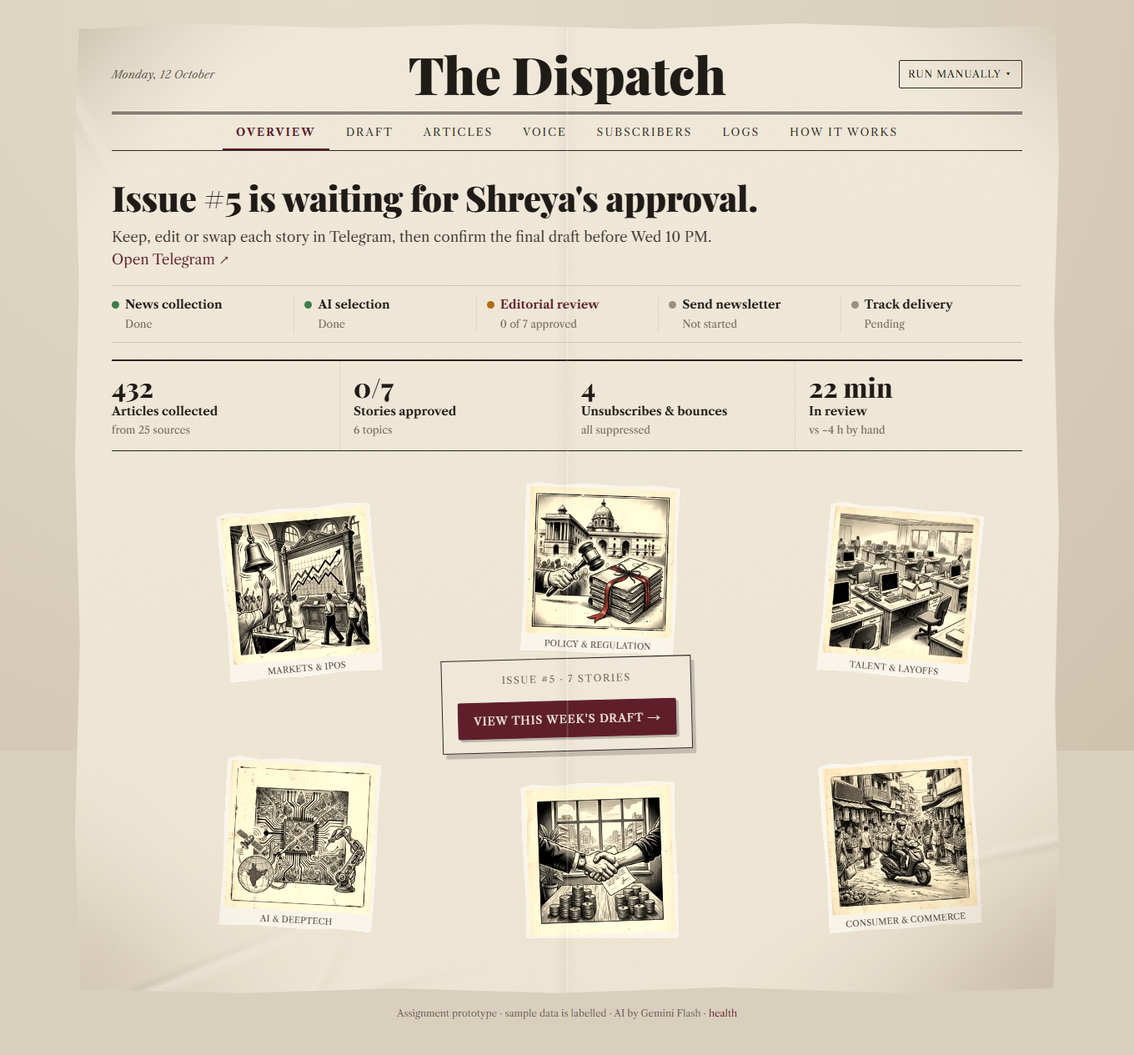
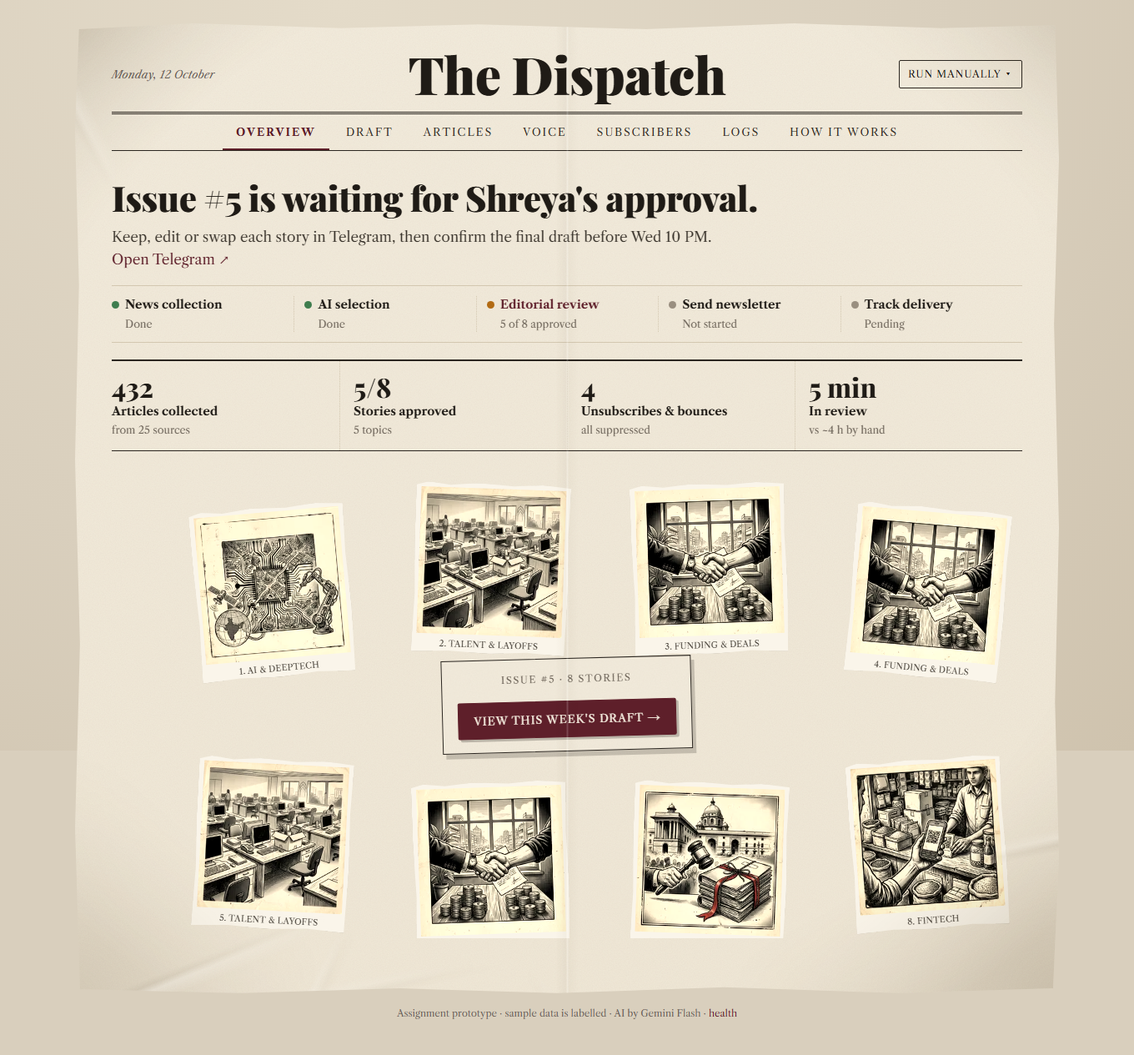
Enforce 8-10 stories / 3+ topics through review: auto-replacement on reject, confirmation refused outside the range; collage shows one picture per story

diff --git a/lib/issues.ts b/lib/issues.ts
@@ -124,14 +124,29 @@ async function renumber(issueId: number) {
             WHERE s.id = x.id`;
 }
 
+/**
+ * Reject a story. The brief requires 8–10 stories, so if removing it would leave fewer
+ * than 8, the best unused reserve (or a Gemini pick) takes its place automatically.
+ */
 export async function rejectStory(storyId: number, channel: Channel) {
   const story = await editableStory(storyId);
   await sql`UPDATE issue_stories SET state = 'rejected', position = NULL, edited_at = now() WHERE id = ${storyId}`;
   await renumber(story.issue_id);
   await logEvent(story.issue_id, "story_rejected", channel, `Removed: ${story.title}`);
+  let replacement: Story | null = null;
+  let remaining = await getStories(story.issue_id);
+  if (remaining.length < MIN_STORIES) {
+    try {
+      const r = await bringInReplacement(story.issue_id, remaining.length + 1, remaining);
+      replacement = await getStory(r.id);
+      await logEvent(story.issue_id, "story_added", channel, `Replacement added to keep ${MIN_STORIES} stories (${r.via})`);
+      remaining = await getStories(story.issue_id);
+    } catch (e) {
+      if (!(e instanceof IssueError)) throw e; // nothing left to bring in: the draft stays short and can't be confirmed
+    }
+  }
   const revoked = await revokeApprovalIfApproved(story.issue_id, channel, "Story removed");
-  const health = draftHealth(await getStories(story.issue_id));
-  return { story, revoked, health };
+  return { story, replacement, revoked, health: draftHealth(remaining) };
 }
 
 /**
@@ -151,7 +166,8 @@ async function bringInReplacement(issueId: number, position: number, remaining: 
   const pool = await candidates(issue.week_key, issue.id);
   if (!pool.length) throw new IssueError("No reserves or unused candidates left to swap in.");
   const voice = (await latestVoiceGuide())?.content ?? "";
-  const rep = await geminiReplacement(pool, remaining.map((s) => ({ title: s.title, topic: s.topic ?? "Other" })), voice);
+  const removed = (await getStories(issueId, ["rejected", "swapped_out"])).map((s) => s.title);
+  const rep = await geminiReplacement(pool, remaining.map((s) => ({ title: s.title, topic: s.topic ?? "Other" })), voice, removed);
   const art = pool.find((c) => c.id === rep.article_id)!;
   const check = checkCommentary(rep.commentary, `${art.title} ${art.summary ?? ""}`);
   const ins = await sql`INSERT INTO issue_stories (issue_id, article_id, position, commentary, original_commentary, state, gemini_rationale, needs_review, review_notes)
@@ -179,6 +195,7 @@ export async function addReplacement(issueId: number, channel: Channel) {
   const issue = await getIssue(issueId);
   if (!issue || !EDITABLE.includes(issue.status)) throw new IssueError("Edits are closed for this issue.");
   const remaining = await getStories(issueId);
+  if (remaining.length >= MAX_STORIES) throw new IssueError(`The draft already has ${MAX_STORIES} stories, the maximum.`);
   const { id, via } = await bringInReplacement(issueId, remaining.length + 1, remaining);
   await logEvent(issueId, "story_added", channel, `Replacement added (${via})`);
   const revoked = await revokeApprovalIfApproved(issueId, channel, "Story added");
@@ -199,6 +216,11 @@ export async function approveIssue(issueId: number, via: "telegram" | "dashboard
   const lateOk = issue.status === "skipped" && istParts(at).dateStr === istParts(sendAt).dateStr;
   if (issue.status !== "pending_approval" && !lateOk) {
     return { ok: false, message: `Issue #${issue.issue_number} is ${issue.status.replace(/_/g, " ")}; it can't be approved now.`, offerSendNow: false, warnings: [] };
+  }
+  // The brief: 8–10 stories spanning at least 3 topics. A draft outside that can't be confirmed.
+  const check = draftHealth(await getStories(issueId));
+  if (check.count < MIN_STORIES || check.count > MAX_STORIES || check.topics.length < MIN_TOPICS) {
+    return { ok: false, message: `Issue #${issue.issue_number} can't be confirmed yet: it has ${check.warnings.join(" and ")}. Swap a story in first.`, offerSendNow: false, warnings: check.warnings };
   }
   const rows = await sql`UPDATE issues SET status = 'approved', approved_at = ${at.toISOString()}, approved_via = ${via}
                          WHERE id = ${issueId} AND status = ${issue.status} RETURNING id`;

diff --git a/tests/security.test.ts b/tests/security.test.ts
@@ -155,7 +155,7 @@ describe("Telegram review flow (E2, E3, E4)", () => {
     expect(await handleUpdate(text("Too late. Two sentences."), later)).toBe("ignored: no pending action");
   });
 
-  it("Swap uses the reserves and keeps the position; Reject removes and warns below 8 stories", async () => {
+  it("Swap uses the reserves and keeps the position; Reject at 8 stories brings in a reserve to keep 8", async () => {
     const issue = await makeDraft({ n: 8, reserves: 2 });
     const stories = await getStories(issue.id);
     const reserves = await getStories(issue.id, ["reserve"]);
@@ -165,14 +165,24 @@ describe("Telegram review flow (E2, E3, E4)", () => {
     expect(reserves.map((r) => r.id)).toContain(after[3].id);
     expect((await sql`SELECT state FROM issue_stories WHERE id = ${stories[3].id}`)[0].state).toBe("swapped_out");
 
-    expect(await handleUpdate(callback(`r:${stories[0].id}`))).toBe("story rejected");
+    expect(await handleUpdate(callback(`r:${stories[0].id}`))).toBe("story rejected, replacement added");
     expect((await sql`SELECT state FROM issue_stories WHERE id = ${stories[0].id}`)[0].state).toBe("rejected");
     const remaining = await getStories(issue.id);
-    expect(remaining).toHaveLength(7);
-    expect(remaining.map((s) => s.position)).toEqual([1, 2, 3, 4, 5, 6, 7]);
+    expect(remaining).toHaveLength(8);
+    expect(remaining.map((s) => s.position)).toEqual([1, 2, 3, 4, 5, 6, 7, 8]);
+    expect(calls.telegram.some((c) => /To keep 8 stories/.test(c.body.text ?? ""))).toBe(true);
+  });
+
+  it("when no reserves or candidates are left, a reject leaves the draft short and it can't be confirmed", async () => {
+    const issue = await makeDraft({ n: 8, reserves: 0 });
+    const [s1] = await getStories(issue.id);
+    expect(await handleUpdate(callback(`r:${s1.id}`))).toBe("story rejected");
+    expect(await getStories(issue.id)).toHaveLength(7);
     const warn = calls.telegram.find((c) => /only 7 stories/.test(c.body.text ?? ""));
-    expect(warn).toBeTruthy();
     expect(JSON.stringify(warn!.body.reply_markup)).toMatch(/Swap one in/);
+    expect(await handleUpdate(callback(`a:${issue.id}`), WED_2159)).toMatch(/approve: blocked/);
+    expect(await handleUpdate(callback(`ay:${issue.id}`), WED_2159)).toMatch(/approve refused/);
+    expect((await issueStatus(issue.id)).status).toBe("pending_approval");
   });
 
   it("Approve asks for confirmation, then stores status, time and channel", async () => {
@@ -188,11 +198,19 @@ describe("Telegram review flow (E2, E3, E4)", () => {
     expect(new Date(row.approved_at).toISOString()).toBe(WED_2159.toISOString());
   });
 
-  it("approving with fewer than 8 stories warns but is allowed", async () => {
+  it("a draft with fewer than 8 stories or 3 topics can't be confirmed (brief: 8–10 stories, 3+ topics)", async () => {
     const issue = await makeDraft({ n: 6, topics: 2 });
-    await handleUpdate(callback(`a:${issue.id}`));
-    expect(calls.telegram.some((c) => /only 6 stories/.test(c.body.text ?? "") && /only 2 topic/.test(c.body.text ?? ""))).toBe(true);
+    expect(await handleUpdate(callback(`a:${issue.id}`), WED_2159)).toMatch(/approve: blocked/);
+    expect(calls.telegram.some((c) => /can't be confirmed yet/.test(c.body.text ?? "") && /only 6 stories/.test(c.body.text ?? "") && /only 2 topic/.test(c.body.text ?? ""))).toBe(true);
     const r = await approveIssue(issue.id, "telegram", WED_2159);
-    expect(r.ok).toBe(true);
+    expect(r.ok).toBe(false);
+    expect((await issueStatus(issue.id)).status).toBe("pending_approval");
+  });
+
+  it("8 stories but only 2 topics can't be confirmed either", async () => {
+    const issue = await makeDraft({ n: 8, topics: 2 });
+    const r = await approveIssue(issue.id, "dashboard", WED_2159);
+    expect(r.ok).toBe(false);
+    expect(r.message).toMatch(/only 2 topic/);
   });
 });

diff --git a/lib/telegram.ts b/lib/telegram.ts
@@ -240,11 +240,14 @@ async function handleCallback(cb: any, at: Date): Promise<string> {
       case "r": {
         const r = await rejectStory(id, "telegram");
         await answer(cb.id, "Story removed");
-        const warn = r.health.warnings.length ? `\n⚠ The draft now has ${r.health.warnings.join(" and ")}. Consider swapping a story back in.` : "";
-        await send(`❌ Removed “${esc(r.story.title)}”. ${r.health.count} stories across ${r.health.topics.length} topics remain.${warn}`,
+        const warn = r.health.warnings.length ? `\n⚠ The draft has ${r.health.warnings.join(" and ")} — it needs 8–10 stories across 3+ topics before you can confirm it.` : "";
+        await send(`❌ Removed “${esc(r.story.title)}”. ${r.health.count} stories across ${r.health.topics.length} topics.${warn}`,
           r.health.warnings.length ? [[{ text: "🔄 Swap one in", callback_data: `u:${r.story.issue_id}` }]] : undefined);
+        if (r.replacement) {
+          await send(`➕ To keep 8 stories, this one came in from the reserves:\n\n${storyText(r.replacement)}`, storyKeyboard(r.replacement));
+        }
         await revokedNote(r.revoked);
-        return "story rejected";
+        return r.replacement ? "story rejected, replacement added" : "story rejected";
       }
       case "u": {
         const r = await addReplacement(id, "telegram");
@@ -258,11 +261,15 @@ async function handleCallback(cb: any, at: Date): Promise<string> {
         const stories = issue ? await getStories(id) : [];
         const h = draftHealth(stories);
         await answer(cb.id);
+        if (h.warnings.length) {
+          await send(`⚠ Issue #${issue?.issue_number} can't be confirmed yet: it has ${h.warnings.join(" and ")}. The newsletter needs 8–10 stories across at least 3 topics.`,
+            [[{ text: "🔄 Swap one in", callback_data: `u:${id}` }]]);
+          return "approve: blocked (draft outside 8–10 stories / 3 topics)";
+        }
         const pending = stories.filter((s) => !s.approved_at).map((s) => s.position);
         await send(
           `Approve issue #${issue?.issue_number} with ${h.count} stories for Thursday 8 AM?` +
-          `\n${h.approved} of ${h.count} stories approved individually${pending.length ? ` — confirming also approves ${pending.length === 1 ? "story" : "stories"} ${pending.join(", ")}` : ""}.` +
-          `${h.warnings.length ? `\n⚠ Note: ${h.warnings.join("; ")}. You can still approve — it's your call.` : ""}`,
+          `\n${h.approved} of ${h.count} stories approved individually${pending.length ? ` — confirming also approves ${pending.length === 1 ? "story" : "stories"} ${pending.join(", ")}` : ""}.`,
           [[{ text: "Yes, approve", callback_data: `ay:${id}` }, { text: "No", callback_data: `an:${id}` }]],
         );
         return "approve: confirm asked";

diff --git a/app/page.tsx b/app/page.tsx
@@ -90,12 +90,15 @@ function Workflow({ d }: { d: D }) {
 const T = (x: number, y: number, r: number) => ({ x: `${x}%`, y: `${y}%`, r: `${r}deg`, sx: `${50 + (x - 50) * 2.6}%`, sy: `${50 + (y - 50) * 2.6}%` });
 const SPOTS_6 = [T(17, 23, -5), T(50, 18, 2), T(83, 23, 5), T(17, 77, 3), T(50, 82, -2), T(83, 77, -4)];
 const SPOTS_8 = [T(14, 23, -5), T(38, 18, 2), T(62, 18, -2), T(86, 23, 5), T(14, 77, 3), T(38, 82, -2), T(62, 82, 2), T(86, 77, -4)];
+const SPOTS_10 = [T(10, 24, -5), T(30, 18, 3), T(50, 15, -2), T(70, 18, 2), T(90, 24, 5), T(10, 76, 3), T(30, 82, -3), T(50, 85, 2), T(70, 82, -2), T(90, 76, -4)];
 
 function Overview({ d }: { d: D }) {
   const o = d.overview;
-  const topics = [...new Set(d.stories.map((s) => s.topic ?? "Other"))];
-  const shown = (topics.length ? topics : TOPICS.filter((t) => t !== "Other").slice(0, 6)).slice(0, 8);
-  const spots = shown.length <= 6 ? SPOTS_6 : SPOTS_8;
+  // One picture per story in the draft (8–10); before the draft exists, a few topic pictures.
+  const shown = d.stories.length
+    ? d.stories.slice(0, 10).map((s) => ({ key: String(s.id), topic: s.topic ?? "Other", cap: `${s.position}. ${s.topic ?? "Other"}` }))
+    : TOPICS.filter((t) => t !== "Other").slice(0, 6).map((t) => ({ key: t, topic: t, cap: t }));
+  const spots = shown.length <= 6 ? SPOTS_6 : shown.length <= 8 ? SPOTS_8 : SPOTS_10;
   const suppressed = d.subCounts.unsubscribed + d.subCounts.bounced + d.subCounts.complained;
   const hasDraft = d.stories.length > 0;
   return (
@@ -120,11 +123,11 @@ function Overview({ d }: { d: D }) {
           {shown.map((t, i) => {
             const s = spots[i];
             return (
-              <figure className="tile" key={t} style={{ "--x": s.x, "--y": s.y, "--r": s.r, "--sx": s.sx, "--sy": s.sy } as React.CSSProperties}>
+              <figure className={`tile${shown.length > 8 ? " small" : ""}`} key={t.key} style={{ "--x": s.x, "--y": s.y, "--r": s.r, "--sx": s.sx, "--sy": s.sy } as React.CSSProperties}>
                 <div style={{ position: "relative", width: "100%", height: "100%" }}>
-                  <Image src={topicImage(t)} alt={`Illustration for ${t}`} fill sizes="(max-width: 760px) 30vw, 220px" />
+                  <Image src={topicImage(t.topic)} alt={`Illustration for ${t.topic}`} fill sizes="(max-width: 760px) 30vw, 220px" />
                 </div>
-                <figcaption className="cap">{t}</figcaption>
+                <figcaption className="cap">{t.cap}</figcaption>
               </figure>
             );
           })}

diff --git a/scripts/top-up-draft.ts b/scripts/top-up-draft.ts
@@ -1,0 +1,40 @@
+import { loadEnv } from "./load-env";
+loadEnv();
+
+/**
+ * One-off repair: bring this week's draft back to the brief's minimum (8 stories, 3+ topics)
+ * after rejects left it short, revoke any approval it got while short, and resend it to Telegram.
+ */
+async function main() {
+  const { sql } = await import("../lib/db");
+  const { addReplacement, draftHealth, getStories, logEvent, revokeApprovalIfApproved } = await import("../lib/issues");
+  const { MIN_STORIES, MIN_TOPICS } = await import("../lib/editorial");
+  const { send, sendDraft } = await import("../lib/telegram");
+  const { weekKey } = await import("../lib/time");
+
+  const issue = (await sql`SELECT * FROM issues WHERE week_key = ${weekKey(new Date())}`)[0];
+  if (!issue) throw new Error("no issue this week");
+  let h = draftHealth(await getStories(issue.id));
+  console.log(`before: issue #${issue.issue_number} ${issue.status}, ${h.count} stories, ${h.topics.length} topics`);
+  if (h.count >= MIN_STORIES && h.topics.length >= MIN_TOPICS) { console.log("nothing to do"); return; }
+
+  const revoked = await revokeApprovalIfApproved(issue.id, "system", `Draft had ${h.warnings.join(" and ")}; topped up to meet the 8–10 stories / 3+ topics rule`);
+  const added: string[] = [];
+  while (h.count < MIN_STORIES || (h.topics.length < MIN_TOPICS && h.count < 10)) {
+    const r = await addReplacement(issue.id, "system");
+    added.push(`${r.newStory.position}. ${r.newStory.title} (${r.newStory.topic}, ${r.via})`);
+    h = draftHealth(await getStories(issue.id));
+  }
+  await logEvent(issue.id, "story_added", "system", `Topped up to ${h.count} stories, ${h.topics.length} topics`);
+  console.log(`revoked approval: ${revoked}`);
+  console.log(`added:\n  ${added.join("\n  ")}`);
+  console.log(`after: ${h.count} stories, ${h.topics.length} topics (${h.topics.join(", ")})`);
+
+  await send(
+    `ℹ <b>Issue #${issue.issue_number} was topped back up to ${h.count} stories.</b>\n` +
+    `After the rejects it had fewer than 8 stories, and the newsletter must have 8–10 stories across at least 3 topics, so ${added.length} replacement${added.length === 1 ? " was" : "s were"} added from the reserves / this week's unused articles.` +
+    `${revoked ? "\nYour earlier approval was revoked because the draft changed — please review the new stories and confirm again." : ""}\nThe full draft follows.`,
+  );
+  await sendDraft(issue.id);
+}
+main().catch((e) => { console.error(e); process.exit(1); });

diff --git a/app/globals.css b/app/globals.css
@@ -157,6 +157,7 @@ a.card:hover { text-decoration: none; background: rgba(255,252,244,.5); }
   transition: transform .55s cubic-bezier(.6,.05,.4,1), opacity .45s ease, left .55s cubic-bezier(.6,.05,.4,1), top .55s cubic-bezier(.6,.05,.4,1);
   clip-path: polygon(0 2%, 8% 0, 22% 1.5%, 40% 0, 63% 1.2%, 82% 0, 100% 1.5%, 99% 30%, 100% 62%, 98.8% 100%, 75% 98.6%, 50% 100%, 24% 98.8%, 0 100%, 1.2% 66%, 0 33%);
 }
+.tile.small { width: 14.5%; }
 .tile img { width: 100%; height: 100%; object-fit: cover; display: block; filter: sepia(.25) contrast(1.05); }
 .tile .cap { position: absolute; left: 0; right: 0; bottom: 3px; text-align: center; font-family: var(--label); font-size: 10px; letter-spacing: .02em; text-transform: uppercase; color: var(--ink-2); white-space: nowrap; overflow: hidden; text-overflow: ellipsis; padding: 0 4px; }
 .collage-center { position: absolute; left: 50%; top: 50%; transform: translate(-50%, -50%) rotate(-1.5deg); z-index: 5; background: var(--paper); background-image: var(--noise); border: 1px solid var(--rule); padding: 16px 18px; text-align: center; box-shadow: 4px 6px 0 rgba(31,27,22,.2); min-width: 240px; transition: all .4s ease; }
@@ -325,6 +326,7 @@ iframe.preview { width: 100%; height: 720px; border: 1px solid var(--line); back
   .card:nth-child(n+3) { border-top: 1px dotted var(--line); }
   .collage { height: 380px; margin: 0 6px; }
   .tile { width: 24%; }
+  .tile.small { width: 19%; }
   .draft-grid { grid-template-columns: 1fr; }
   .story { border-right: 0 !important; }
   .story.lead { grid-template-columns: 1fr; }

diff --git a/lib/editorial.ts b/lib/editorial.ts
@@ -286,7 +286,7 @@ export function checkCommentary(commentary: string, source: string): { commentar
 // ---------------------------------------------------------------------------
 // Swap replacement when reserves run out
 // ---------------------------------------------------------------------------
-export async function geminiReplacement(cands: Candidate[], keep: { title: string; topic: string }[], voice: string) {
+export async function geminiReplacement(cands: Candidate[], keep: { title: string; topic: string }[], voice: string, removed: string[] = []) {
   const out = await generateJson<{ article_id: number; rationale: string; commentary: string }>({
     system: "You are a sharp, careful newsletter editor. Return JSON only.",
     prompt: [
@@ -297,6 +297,7 @@ export async function geminiReplacement(cands: Candidate[], keep: { title: strin
       GROUNDING_RULES,
       `Voice guide:\n${voice}`,
       `Stories already in the issue:\n${keep.map((k) => `- [${k.topic}] ${k.title}`).join("\n")}`,
+      removed.length ? `Shreya removed these stories from the draft. Do NOT pick them again, or any other article about the same events:\n${removed.map((t) => `- ${t}`).join("\n")}` : "",
       `Candidates (id | topic | source | title | summary):\n${cands.map((c) => `${c.id} | ${c.topic} | ${c.source_name} | ${c.title} | ${(c.summary || "").slice(0, 200)}`).join("\n")}`,
     ].join("\n\n"),
     schema: {

diff --git a/app/api/admin/action/route.ts b/app/api/admin/action/route.ts
@@ -72,7 +72,7 @@ export async function POST(req: Request) {
       }
       case "story_reject": {
         const r = await rejectStory(Number(form.get("story_id")), "dashboard");
-        message = `Story removed. ${r.health.count} stories, ${r.health.topics.length} topics${r.health.warnings.length ? ` — ${r.health.warnings.join("; ")}` : ""}.${r.revoked ? " Approval was revoked." : ""}`;
+        message = `Story removed.${r.replacement ? ` “${r.replacement.title}” came in from the reserves to keep 8 stories.` : ""} ${r.health.count} stories, ${r.health.topics.length} topics${r.health.warnings.length ? ` — ${r.health.warnings.join("; ")}; swap a story in before confirming` : ""}.${r.revoked ? " Approval was revoked." : ""}`;
         anchor = "draft"; break;
       }
       case "approve": {

diff --git a/RUBRIC.md b/RUBRIC.md
@@ -2,7 +2,7 @@
 
 Self-assessment and acceptance checklist against **Problem Statement 17 (MESA Cohort C4, AI and its Applications — Section 1)**. A row is ✅ only when evidence exists; ⚠ = partial, ❌ = not done (with the reason).
 
-Evidence lives in [`docs/evidence/`](docs/evidence/): `test-results.txt` (full Vitest run: 66 tests in 6 files, all passing), `e2e.txt` (production checks), `live-email-test.txt`, `cron-triggers.txt`, `broken-feed-run.txt`, `telegram-live-test.txt`, `gitleaks.txt`, `gemini-only-grep.txt`. Real Gemini output: [`docs/sample-run/`](docs/sample-run/README.md). Screenshots: [`docs/screenshots/`](docs/screenshots/).
+Evidence lives in [`docs/evidence/`](docs/evidence/): `test-results.txt` (full Vitest run: 68 tests in 6 files, all passing), `e2e.txt` (production checks), `live-email-test.txt`, `cron-triggers.txt`, `broken-feed-run.txt`, `telegram-live-test.txt`, `gitleaks.txt`, `gemini-only-grep.txt`. Real Gemini output: [`docs/sample-run/`](docs/sample-run/README.md). Screenshots: [`docs/screenshots/`](docs/screenshots/).
 
 ## Trace: every sentence of the brief
 
@@ -57,7 +57,7 @@ Evidence lives in [`docs/evidence/`](docs/evidence/): `test-results.txt` (full V
 
 | ID | Requirement | Pts | Pass criteria | Status | Implementation | Evidence |
 |---|---|---|---|---|---|---|
-| D1 | Selects 8–10 stories | 4 | Live run has 8–10; validator rejects other counts | ✅ | `selectStories`, `validateSelection`, `repairSelection` | `sample-run/README.md` (9 stories); tests "rejects too few and too many", "retried once … repaired in code" |
+| D1 | Selects 8–10 stories | 4 | Live run has 8–10; validator rejects other counts | ✅ | `selectStories`, `validateSelection`, `repairSelection`; kept at 8–10 through review (auto-replacement on reject, confirmation refused outside 8–10) | `sample-run/README.md` (9 stories); tests "rejects too few and too many", "retried once … repaired in code" |
 | D2 | ≥3 topic areas | 3 | Live draft spans ≥3 topics; validator enforces | ✅ | `validateSelection` | sample run: 7 topics; test "rejects fewer than 3 topics" |
 | D3 | Editorial criteria | 4 | Prompt encodes signal-to-noise vs this week's batch, counterintuitive, under-reported, connecting trends; rationale per story | ✅ | `SELECTION_CRITERIA` (verbatim), `gemini_rationale`, `connects_with` | test "states the editorial criteria verbatim"; "Why Gemini picked it" on every story card |
 | D4 | 2–3 lines of commentary | 3 | 2–3 sentences, checked in code | ✅ | `checkCommentary()` | tests "counts sentences", "trims to 3 … flags fewer than 2" |
@@ -70,8 +70,8 @@ Evidence lives in [`docs/evidence/`](docs/evidence/): `test-results.txt` (full V
 |---|---|---|---|---|---|---|
 | E1 | Draft delivered by Wednesday evening | 3 | Cron Wed afternoon IST; real draft in Telegram | ✅ | `30 9 * * 3` (15:00 IST); `sendDraft` | `telegram-live-test.txt` steps 1/10; test "sends the draft to Telegram" (header + cards + footer, ≤4,096 chars) |
 | E2 | Edit commentary | 3 | Edit via Telegram updates DB | ✅ | ✏ ForceReply (30 min) + `/edit n text` | `telegram-live-test.txt` steps 3–4; test "Edit via ForceReply and /edit" |
-| E3 | Swap / reject individual stories | 4 | Swap uses reserves; reject removes; DB reflects both | ✅ | `swapStory` (reserve keeping ≥3 topics, Gemini fallback), `rejectStory` (warns, offers swap) | `telegram-live-test.txt` steps 5–6; test "Swap uses the reserves … Reject removes and warns" |
-| E4 | Explicit approval recorded | 3 | Confirmation step; status, time and channel stored | ✅ | ✅ Confirm final draft → "Approve issue #N …? k of n approved individually" → Yes | `telegram-live-test.txt` steps 7–8; tests "Approve asks for confirmation…", "final confirmation names unapproved stories" |
+| E3 | Swap / reject individual stories | 4 | Swap uses reserves; reject removes; DB reflects both | ✅ | `swapStory` (reserve keeping ≥3 topics, Gemini fallback), `rejectStory` (at 8 stories a reserve or Gemini pick replaces it automatically) | `telegram-live-test.txt` steps 5–6; tests "Swap uses the reserves … Reject at 8 stories brings in a reserve to keep 8", "when no reserves are left … can't be confirmed" |
+| E4 | Explicit approval recorded | 3 | Confirmation step; status, time and channel stored | ✅ | ✅ Confirm final draft → "Approve issue #N …? k of n approved individually" → Yes; refused outside 8–10 stories / below 3 topics | `telegram-live-test.txt` steps 7–8; tests "Approve asks for confirmation…", "final confirmation names unapproved stories", "a draft with fewer than 8 stories or 3 topics can't be confirmed", "8 stories but only 2 topics can't be confirmed" |
 | E5 | Secure bot | 2 | Wrong secret or chat rejected | ✅ | secret header + chat ID check | test "wrong secret → 401; wrong chat → ignored"; `e2e.txt` |
 
 ## F. Scheduling and reminder — 8 pts

diff --git a/README.md b/README.md
@@ -20,7 +20,7 @@ A weekly newsletter about the Indian startup and tech ecosystem, run almost hand
 | Wednesday afternoon: 8–10 high signal-to-noise stories, none from the last 4 issues, at least 3 topics | `lib/editorial.ts`: the prompt states the criteria verbatim, then a **code validator** checks the result, retries once and repairs it deterministically if needed |
 | 2–3 lines of commentary in her documented voice, stored as a style guide | `voice_guide` table (versioned). **Learn my voice** documents the guide from her past issues. Sentence count and unsupported numbers are checked in code |
 | Delivered via Telegram by Wednesday evening | cron `30 9 * * 3` (15:00 IST) → header, one card per story, confirm/reject footer |
-| She reviews, edits, **approves or swaps stories individually** | per story ✅ Keep · ✏ Edit · 🔄 Swap · ❌ Reject, with progress "6 of 9 approved" |
+| She reviews, edits, **approves or swaps stories individually** | per story ✅ Keep · ✏ Edit · 🔄 Swap · ❌ Reject, with progress "6 of 9 approved". Rejecting at 8 stories brings in a replacement automatically, and the final confirmation is refused outside 8–10 stories / below 3 topics |
 | When she confirms the final draft, it is assembled into a formatted email and sent Thursday morning | ✅ Confirm final draft (with confirmation) → cron `30 2 * * 4` (08:00 IST) → HTML + plain-text email |
 | Never sends autonomously; waits for explicit confirmation | one send function starting with an atomic `UPDATE … WHERE status='approved'` claim. Any edit after approval revokes it |
 | Reminder if no confirmation by Wednesday 10 PM | cron `30 16 * * 3` → fires 22:00–22:59 IST, once, only while still pending |
@@ -74,7 +74,7 @@ Details: [docs/SCHEMA.md](docs/SCHEMA.md).
 ## The dashboard: a newspaper you can page through
 
 - **Top navigation:** Overview · Draft · Articles · Voice · Subscribers · Logs · How it works, right under the masthead.
-- **Front page, kept deliberately simple:** one status headline with the next action, a five-step status line (Collect → Select → Review → Send → Track delivery), four numbers (articles, stories approved, unsubscribes & bounces, review time vs ~4 h by hand), a rubber stamp when approved or sent, and a collage of this week's topics around one button: **View this week's draft**.
+- **Front page, kept deliberately simple:** one status headline with the next action, a five-step status line (Collect → Select → Review → Send → Track delivery), four numbers (articles, stories approved, unsubscribes & bounces, review time vs ~4 h by hand), a rubber stamp when approved or sent, and a collage with one picture per story (8–10) around one button: **View this week's draft**.
 - **Turning pages:** the paper **folds** to the next page. From the front page the collage pictures move aside first. Arrow keys and swipes work too, and reduced-motion users get no animation.
 - **Inside pages:** the draft (illustrated story cards with keep/edit/swap/reject, Gemini's reasons, approval history, topic mix vs the last four issues, and the email as subscribers will see it), articles (why each was kept or dropped, source health), editorial voice (Learn my voice, edit, version history), subscribers (unsubscribes, bounces, delivery tracking, CSV import), logs, and how it works.
 - **Two fonts (Playfair Display headlines, Libre Caslon text), paper creased only at the edges.** Topic illustrations are newsprint etchings generated once with Gemini Flash image (`scripts/generate-topic-art.ts`).

diff --git a/docs/ASSUMPTIONS.md b/docs/ASSUMPTIONS.md
@@ -45,3 +45,5 @@ Every decision taken without asking, so it can be reviewed or reversed.
 29. **CSV import** accepts `email` (required) and `name` (optional) columns, up to 10,000 rows per upload. Existing addresses are never modified, so a suppressed person can't be re-activated by an import.
 30. **Dashboard design.** The earlier "collapsible sections" layout was the author's own suggestion, not part of the brief. It was replaced by a newspaper with pages, turned by a fold animation. Read-only without login; every write needs the admin password.
 31. **Topic illustrations** were generated once (`scripts/generate-topic-art.ts`, Gemini Flash image model) and are committed as static images, so drafts never depend on a slow or fragile image step. Each story shows its topic's illustration. No publisher photos are used.
+32. **8–10 stories is enforced, not just warned about.** The original build let Shreya confirm a short draft ("her editorial call"). That contradicts the brief, so now: rejecting a story when the draft has 8 automatically brings in the best reserve (or a Gemini pick that avoids anything she removed); the final confirmation is refused outside 8–10 stories or below 3 topics, in Telegram and on the dashboard, with a "Swap one in" button. On 12 Oct the live issue #5 had been confirmed with 5 stories; it was topped back up to 8 (scripts/top-up-draft.ts), its approval revoked, and Shreya was asked to confirm again.
+33. **Front-page collage** shows one picture per story in the draft (8–10), captioned with its position and topic.
